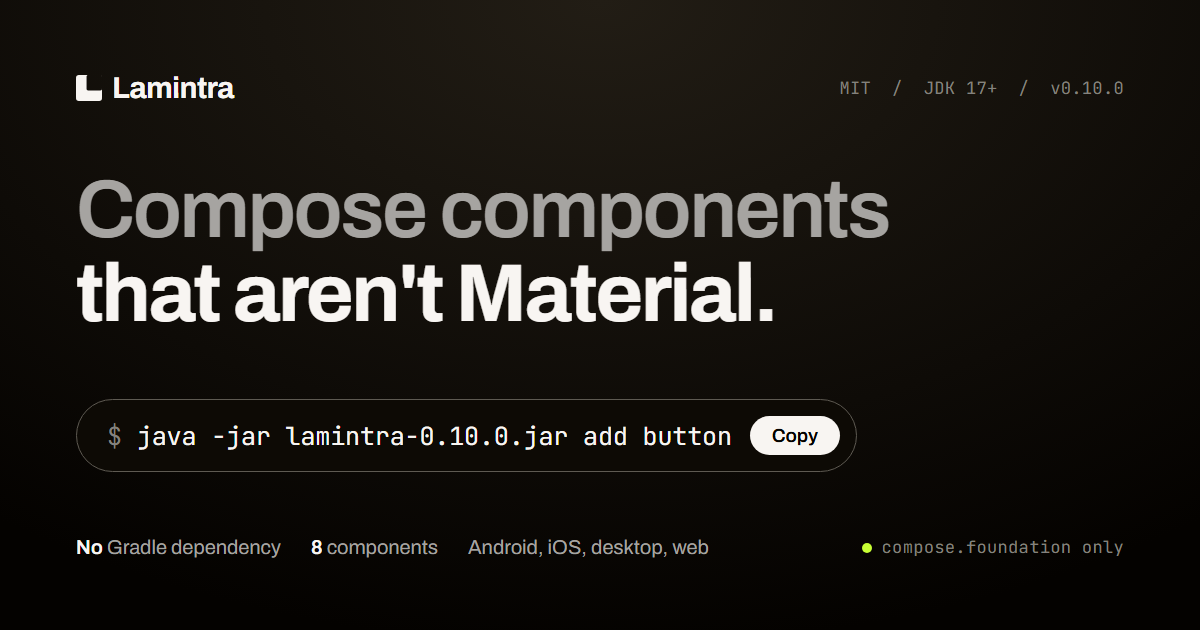
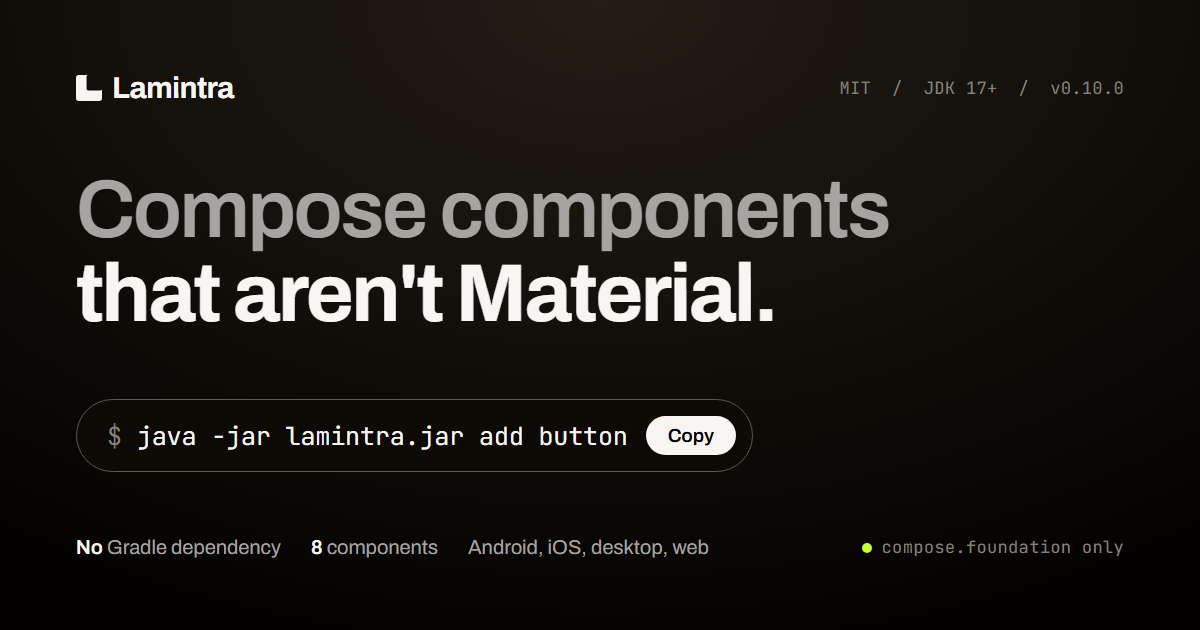
Hand out lamintra.jar, so a written-down command survives the next release
jarFile derived lamintra-<version>.jar from currentCli, which kept every page correct and every copy of a page wrong the moment a version shipped. The release now carries an unversioned asset, so this is one line and all 48 occurrences in the built output follow it.

The comment above it explained why the name was NOT lamintra.jar, which was true when the site said one thing and the release served another. Both directions this line has been wrong in are recorded there now, because the next person to read it will otherwise reintroduce the first bug while fixing the second.

og-card.mjs re-implemented the derivation with a comment asking the next person to keep both in step. It parses jarFile out of releases.ts instead. That card is the only thing on this site that bakes a value into a picture, so it is the one place a stale value cannot be corrected by a rebuild. Re-rendered and re-optimised.

Verified on the live origin after deploying: sixteen occurrences on the install page, none versioned, and the card served from origin at the new byte count rather than from cache.

Changed region(s): [[0.3392, 0.6333, 0.7092, 0.7238]]

diff --git a/src/data/releases.ts b/src/data/releases.ts
@@ -14,23 +14,34 @@ export const currentCli = 'v0.10.0';
 export const pinnedRegistry = 'v0.9.0';
 
 /**
- * The downloaded file's real name, which is NOT `lamintra.jar`.
+ * The downloaded file's name, and it is deliberately unversioned.
  *
- * `archiveVersion` in cli-kotlin/build.gradle.kts puts the version in the
- * filename, and release.yml uploads that file as-is, so what a visitor gets
- * from the release page is `lamintra-0.8.0.jar`. The site said
- * `java -jar lamintra.jar` in six hand-written places, so the first command
- * every new user copied failed with "Unable to access jarfile". The founder
- * hit it on the first real install test on 2026-08-11.
+ * This line has now been wrong in both directions, so both are recorded.
  *
- * Derived here rather than typed anywhere, for the same reason the component
- * counts are: six copies of a string that changes every release is six chances
- * to ship a broken primary CTA, and it was already wrong in all six.
+ * Until 2026-08-11 the site said `lamintra.jar` in six hand-written places
+ * while the release served `lamintra-0.8.0.jar`, because `archiveVersion` in
+ * cli-kotlin/build.gradle.kts puts the version in the built filename and
+ * release.yml uploaded that file as-is. So the first command every new user
+ * copied failed with "Unable to access jarfile". The founder hit it on the
+ * first real install test.
  *
- * If the jar is ever renamed on the release side, this is the only line to
- * change.
+ * The fix was to derive the versioned name here. That closed the mismatch and
+ * left a worse one: the version was baked into every command anyone wrote
+ * down. A demo video, a forum post, a team's onboarding doc - all of them
+ * break the day the next tag ships, and none of them can be regenerated from
+ * this file the way these pages can.
+ *
+ * So release.yml uploads the same jar under two names as of 2026-08-25.
+ * `lamintra-<version>.jar` still exists, still carries the tag assertion, and
+ * is what anyone pinning a version should use. `lamintra.jar` is what the
+ * site hands out. The unversioned name is also the only thing that makes
+ * `releases/latest/download/lamintra.jar` resolve, because that URL matches
+ * on asset name and a versioned one can never be "latest".
+ *
+ * Still derived rather than typed in each page, for the same reason the
+ * component counts are.
  */
-export const jarFile = `lamintra-${currentCli.replace(/^v/, '')}.jar`;
+export const jarFile = 'lamintra.jar';
 
 /** The full command, so callers never concatenate `java -jar` themselves. */
 export const jarCommand = (args: string) => `java -jar ${jarFile} ${args}`;
